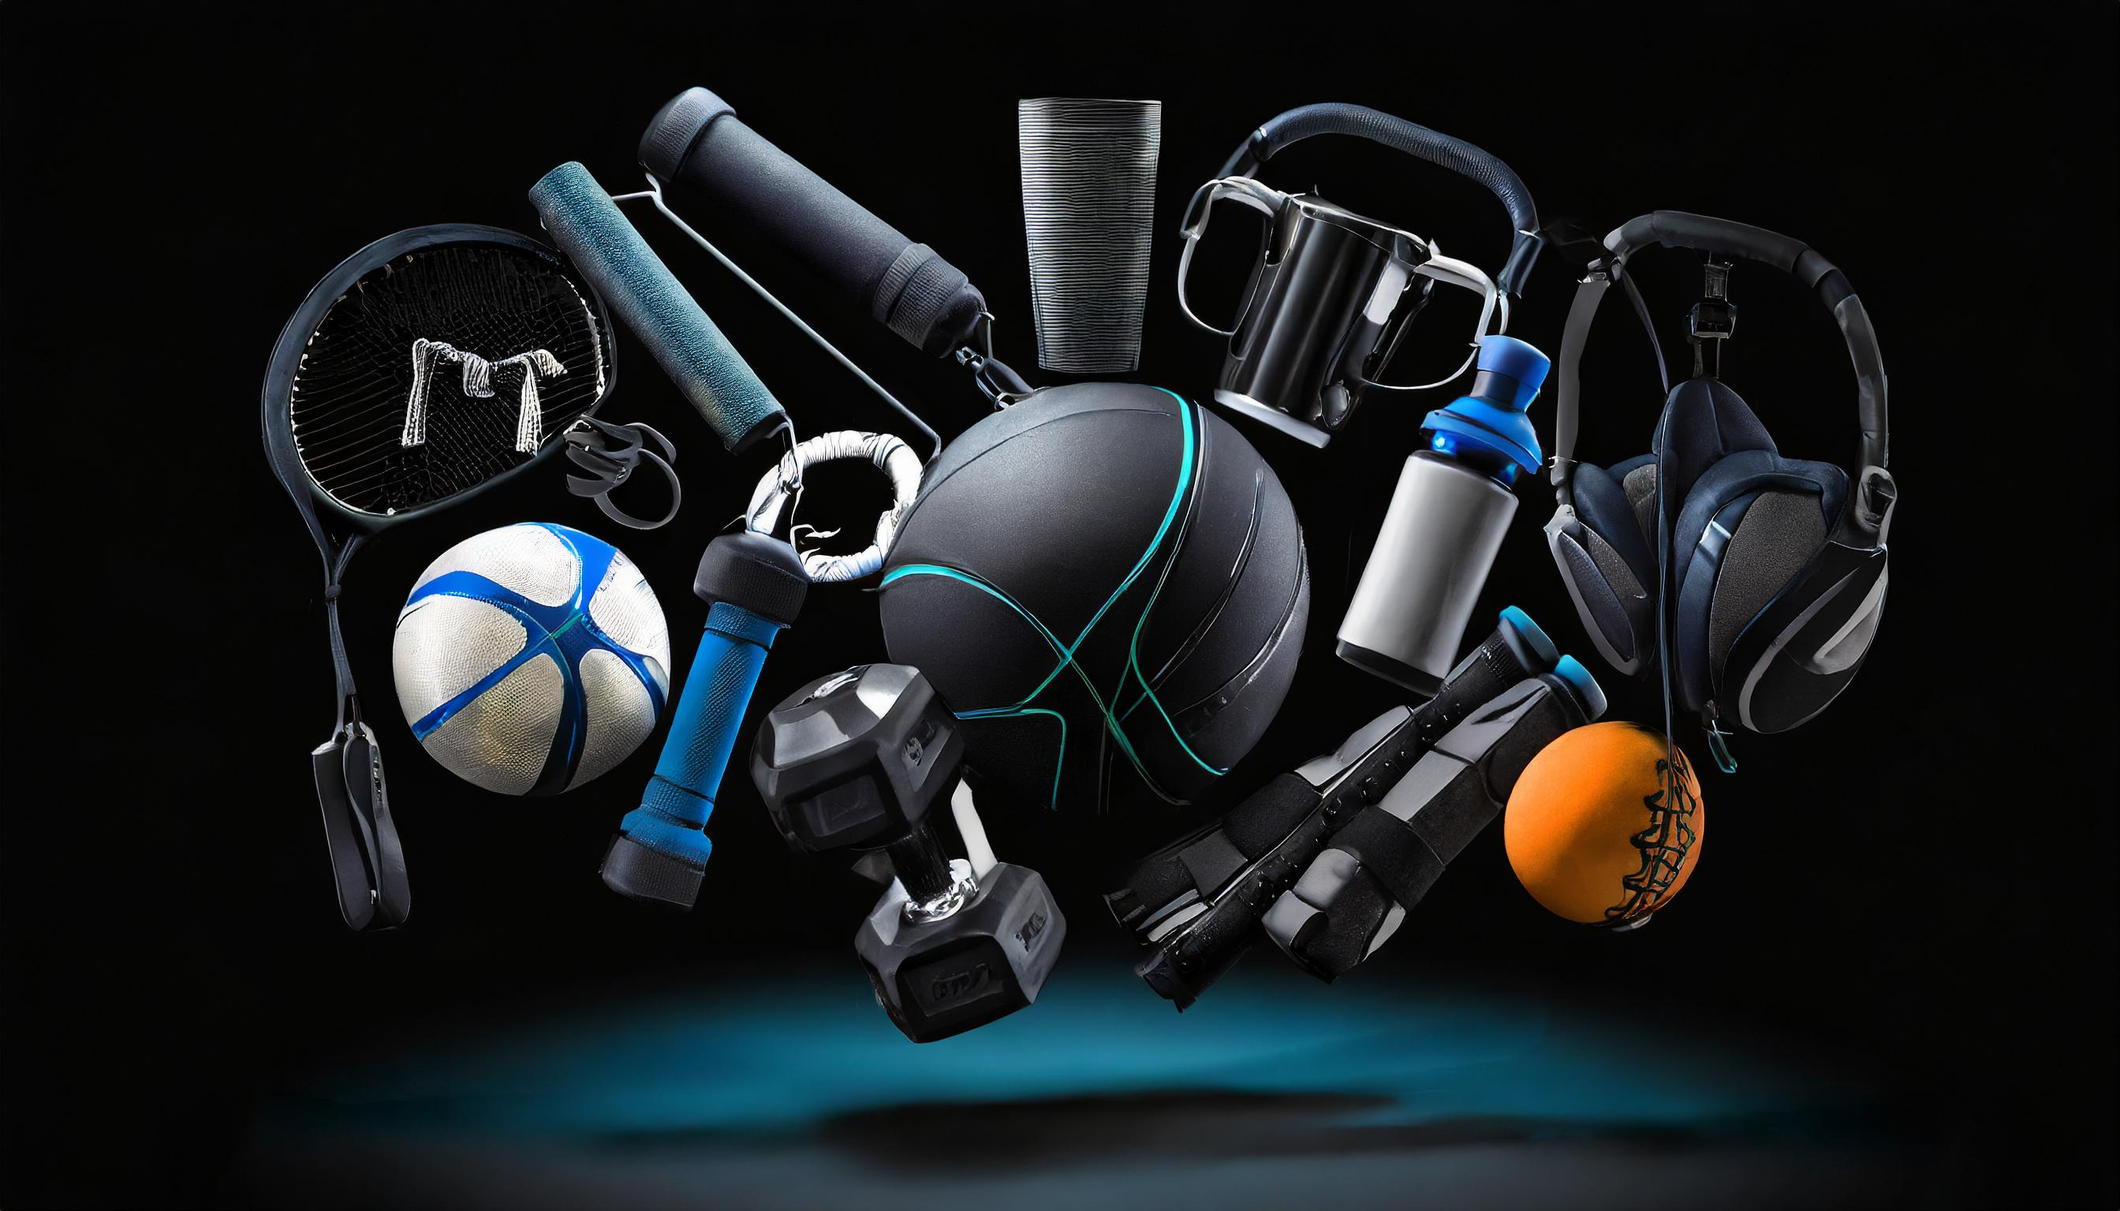
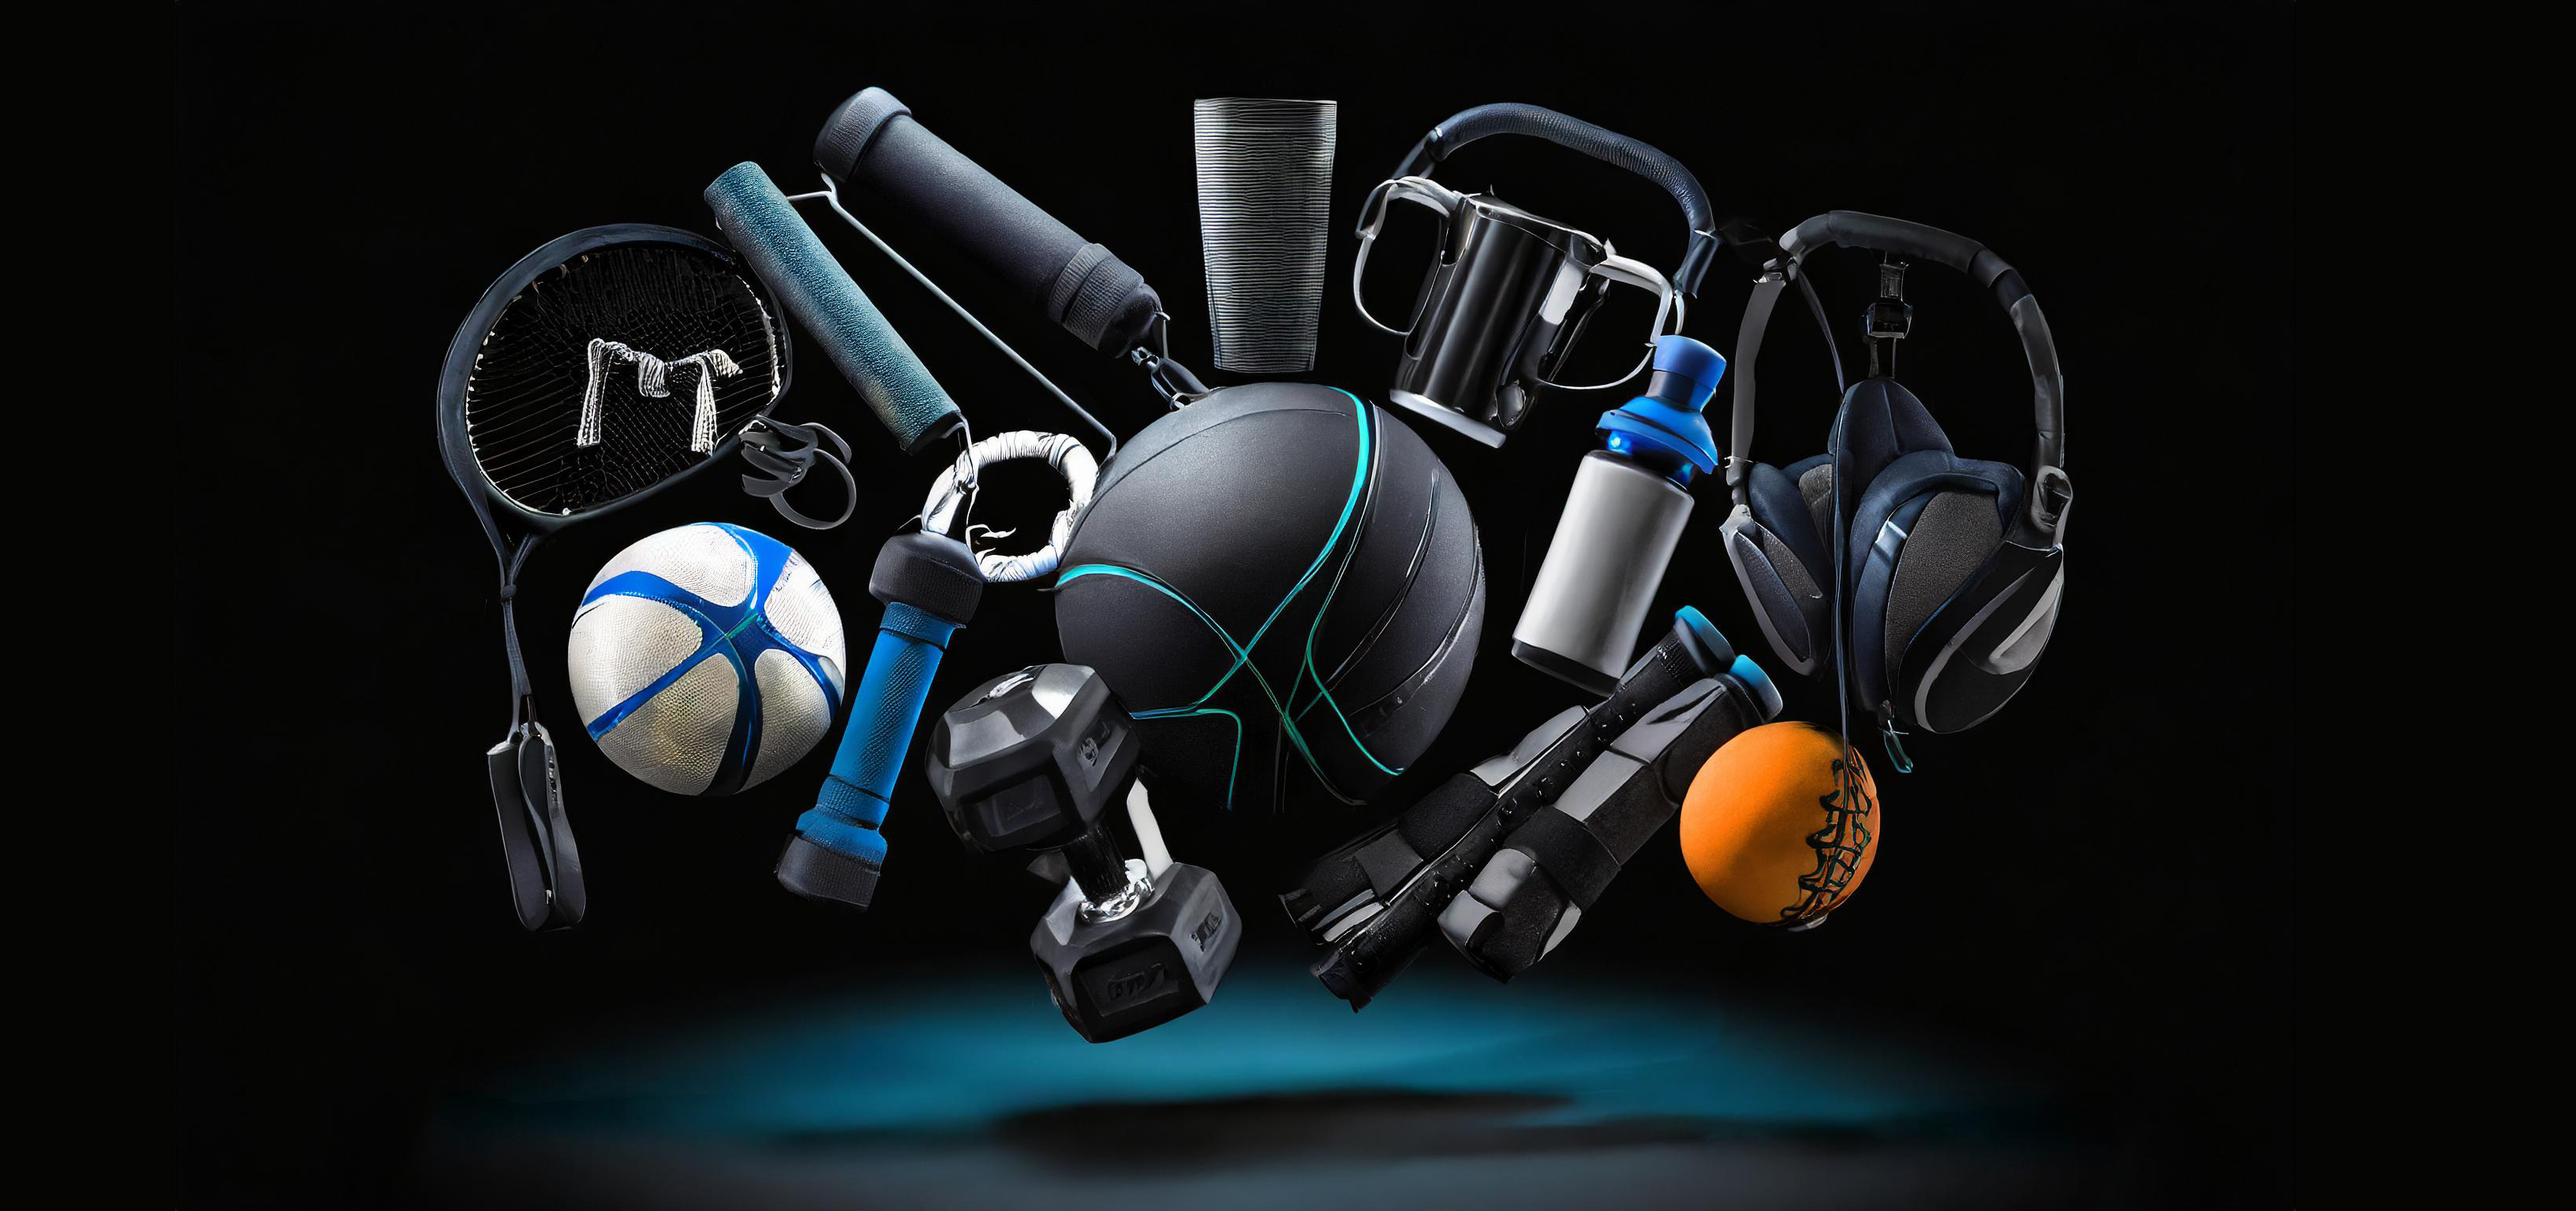
index_responsive

Changed region(s): [[0.125, 0.0625, 0.9062, 0.875], [0.5625, 0.8125, 0.8438, 1.0], [0.375, 0.1562, 0.4062, 0.1875]]

diff --git a/app/assets/stylesheets/components/_banner.scss b/app/assets/stylesheets/components/_banner.scss
@@ -4,10 +4,10 @@
   justify-content: center;
   align-items: center;
   background-image: image-url('sports_banner_image.jpg');
-  background-size: cover;
   background-position: center -450px;
   min-height: 700px;
   background-repeat: no-repeat;
+  object-fit: cover;
 
   .banner-content {
     min-height: 700px;

diff --git a/app/assets/stylesheets/pages/_home.scss b/app/assets/stylesheets/pages/_home.scss
@@ -1,0 +1,7 @@
+// Specific CSS for your home-page
+.card-title {
+  white-space: nowrap;
+  overflow: hidden;
+  display: block;
+  text-overflow: ellipsis;
+}
